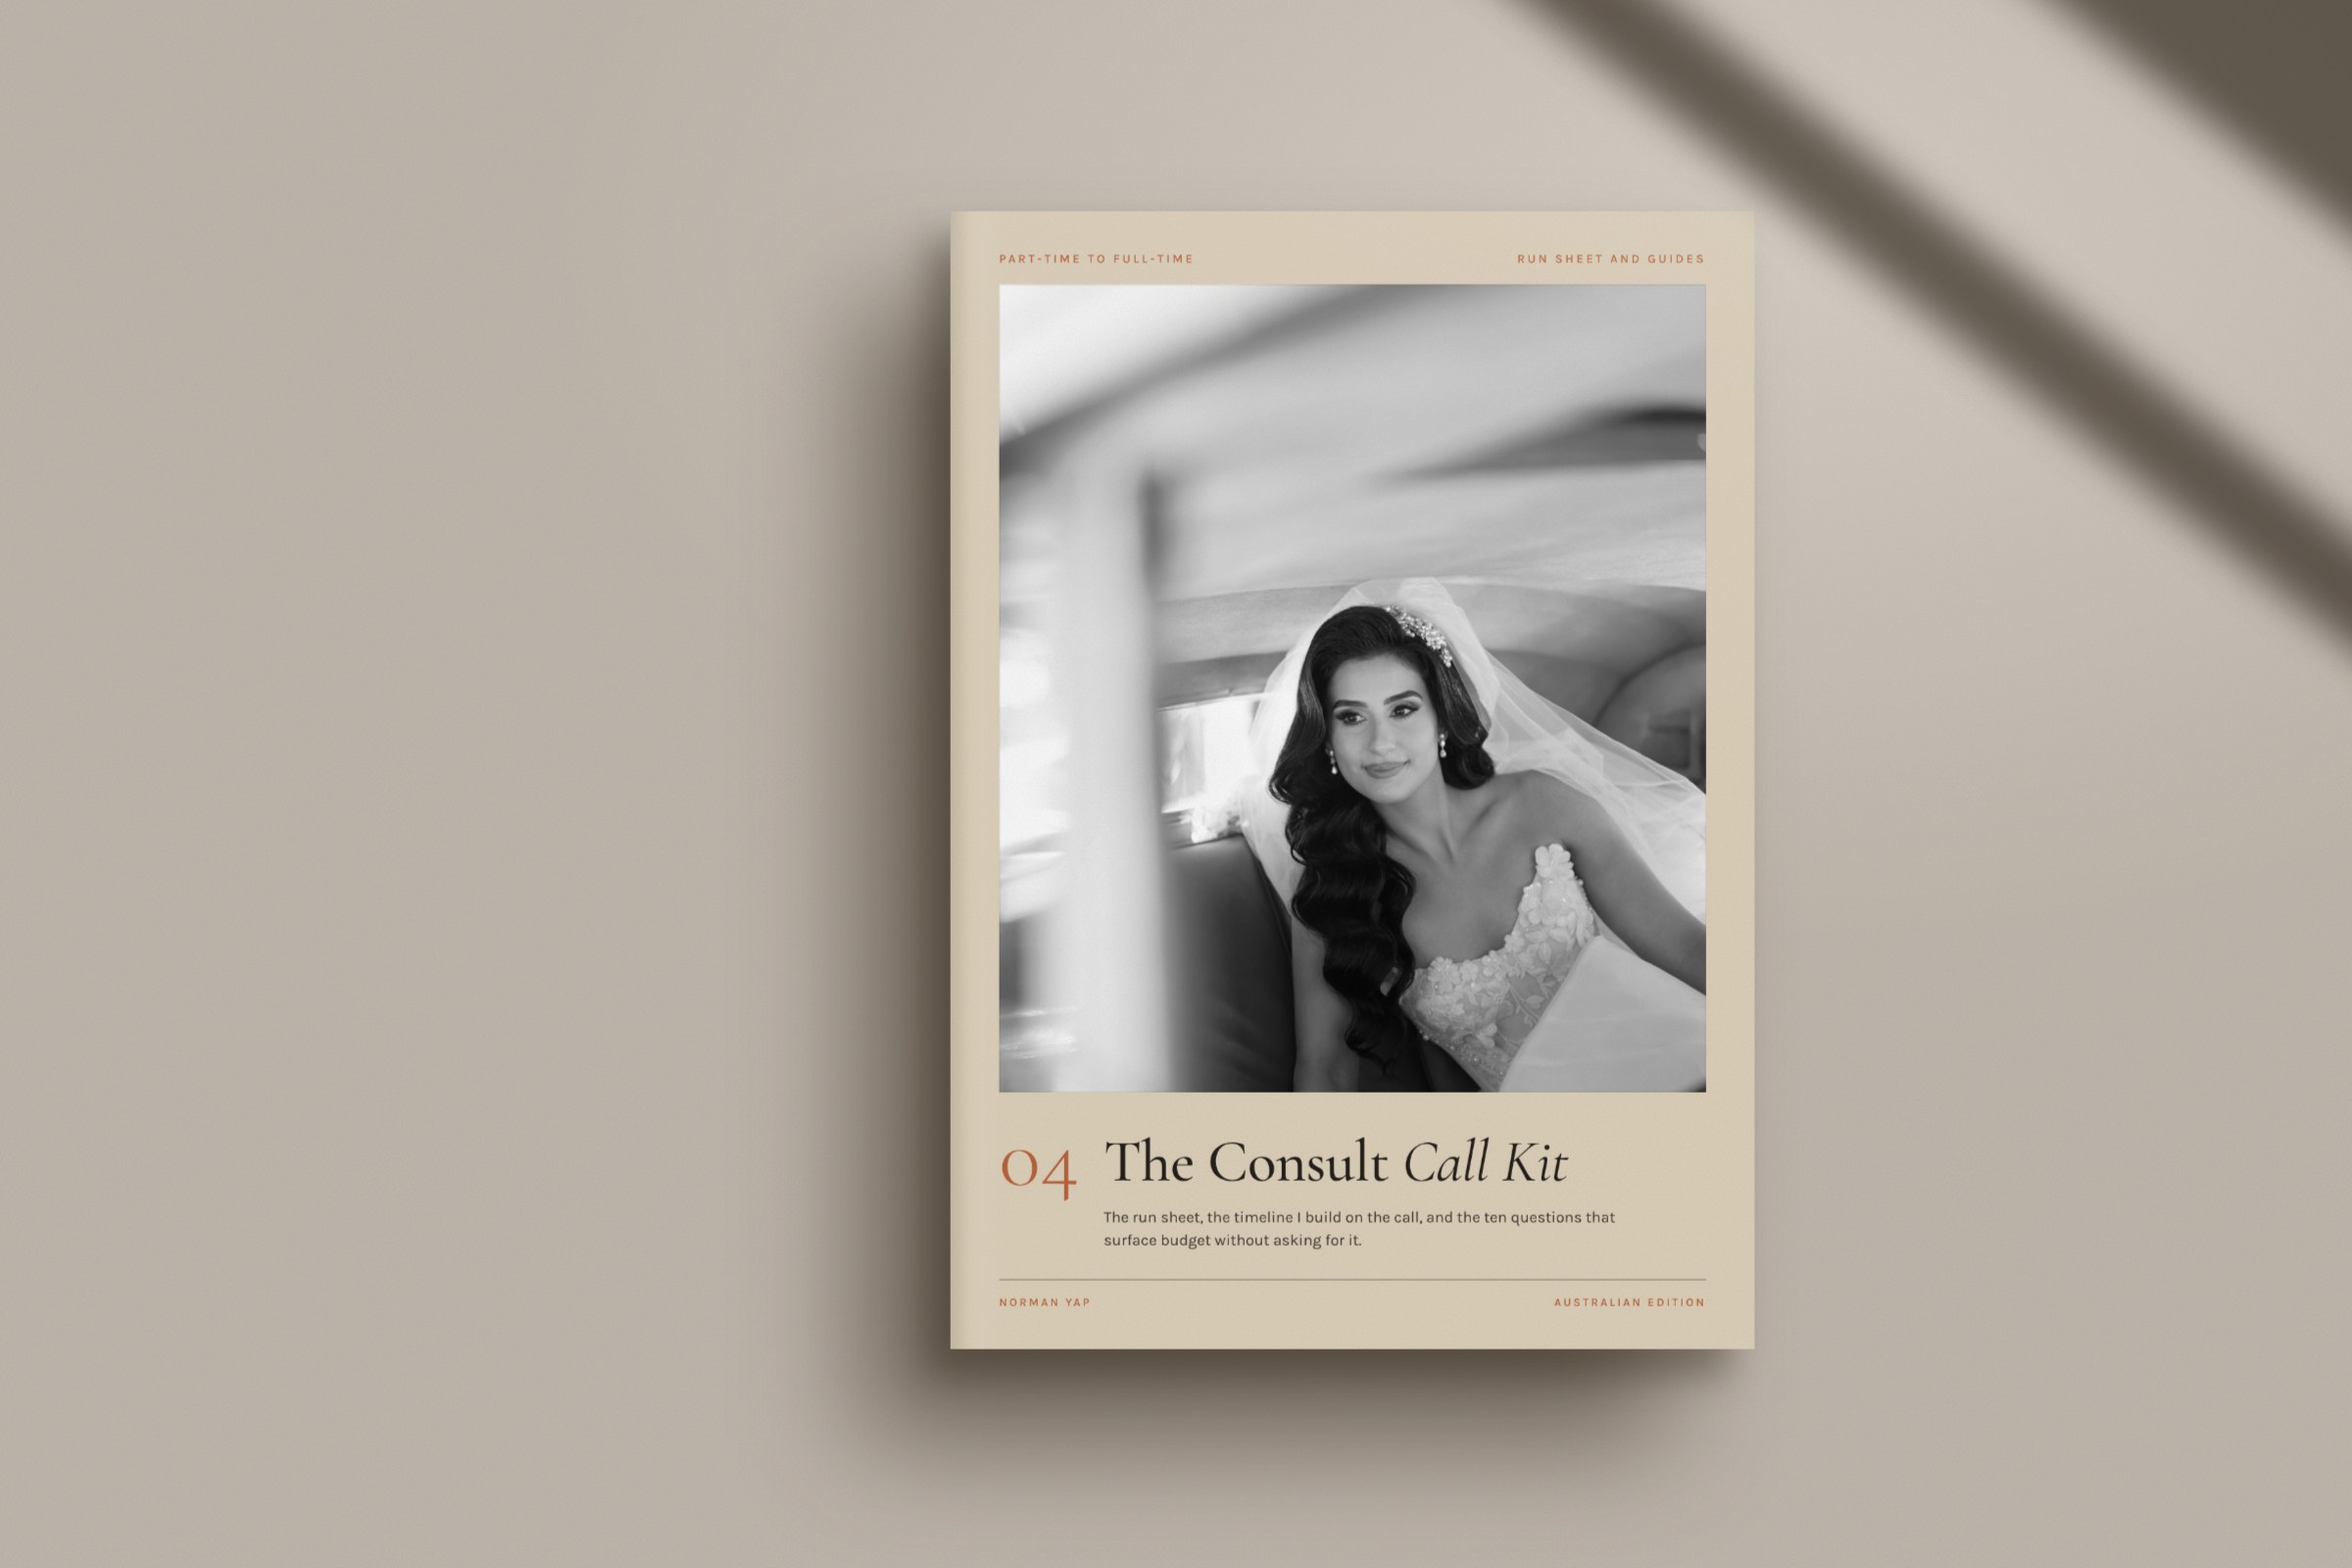
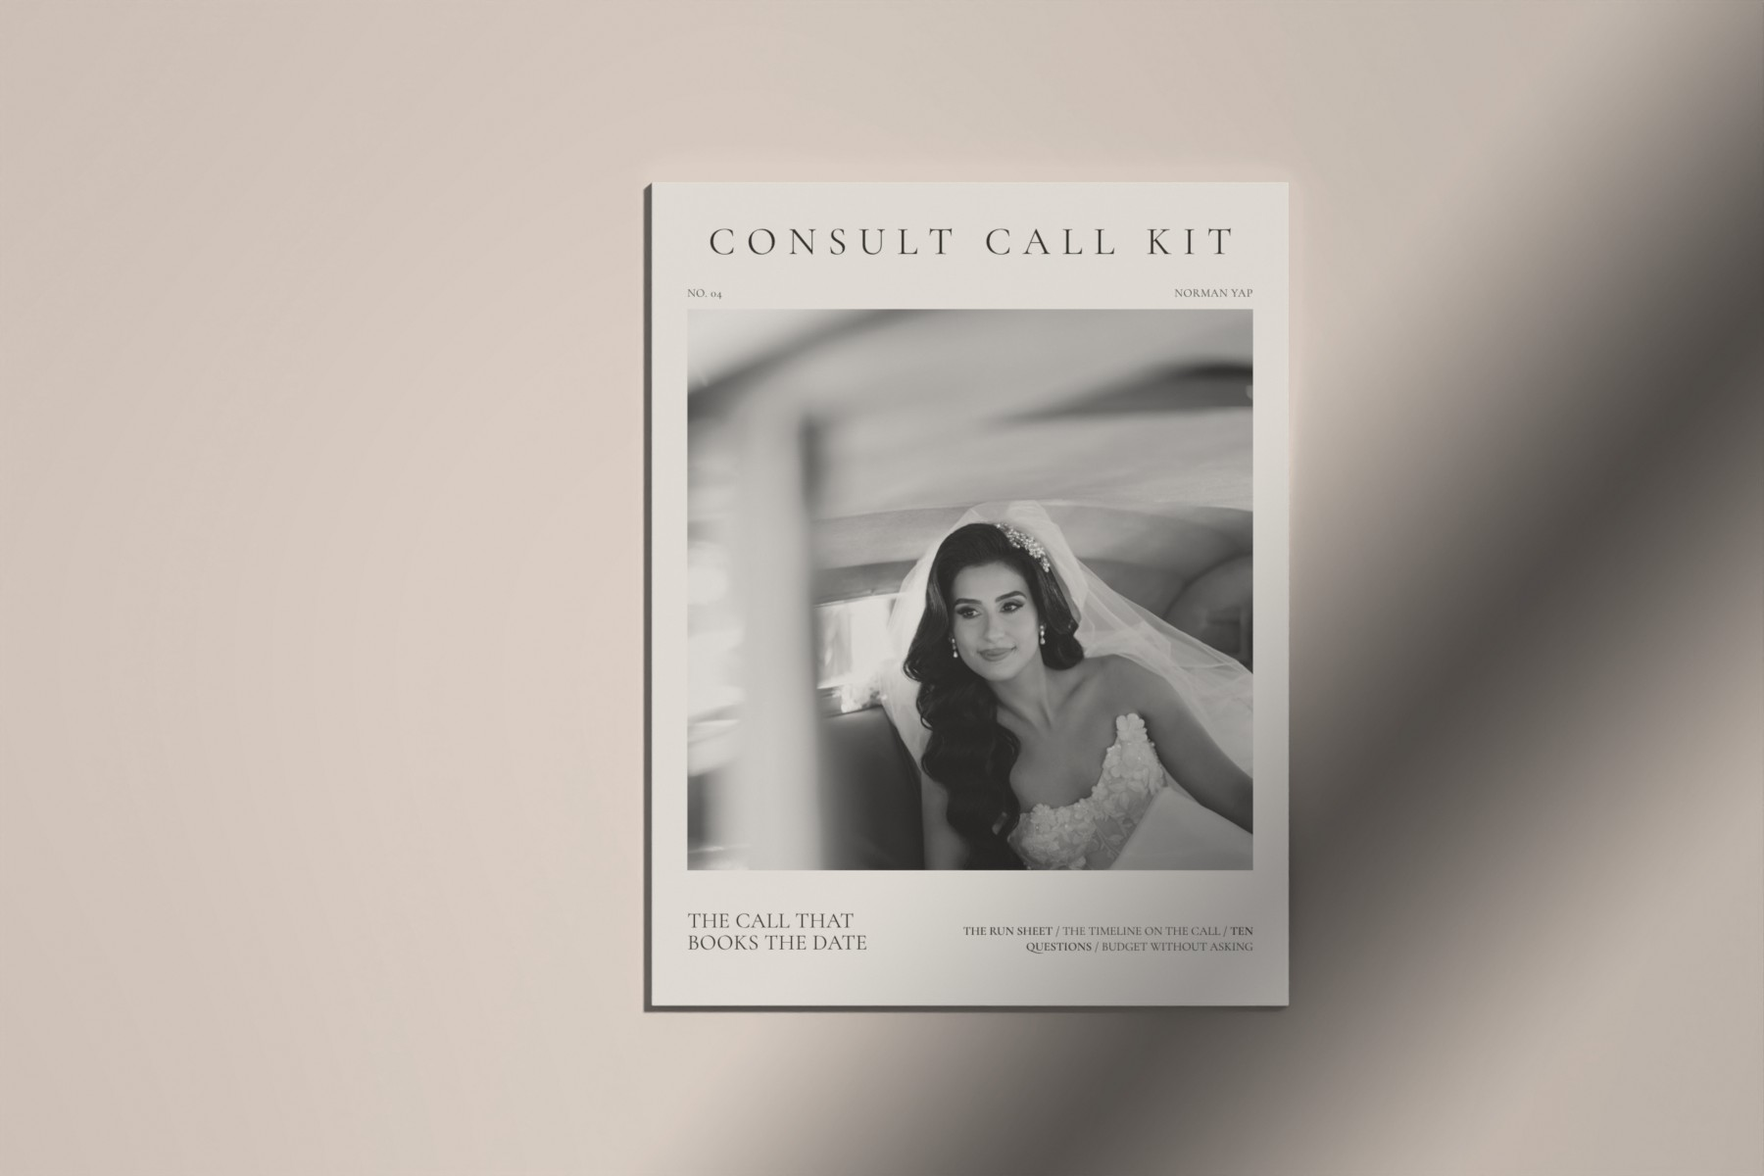
Mockups: closer match on scenes 01 to 04, renders in progress
2:3 paperback cover, thicker hardcover with stronger perspective, and
folded copies for the banded stack. Includes the scene 05 onward renders
finished so far.

Claude-Session: https://claude.ai/code/session_01GtaESJYyjWQyr6vCh4bNfK

diff --git a/mockups/blender/assets.js b/mockups/blender/assets.js
@@ -18,6 +18,12 @@ const P = ['quit-number-calculator', 'booking-pack', 'follow-up-vault', 'consult
       await el.screenshot({ path: path.join(dir, `${p}-${await el.getAttribute('data-shot')}.png`) });
     }
   }
+  for (const p of P) {   // 2:3 paperback cover from the magazine cover template
+    await pg.goto('file://' + path.join(__dirname, '..', 'covers-photo', 'magazine.html') + '?p=' + p + '&w=528');
+    await pg.evaluate(() => document.fonts.ready);
+    await pg.evaluate(async () => Promise.all([...document.images].filter(i => !i.complete).map(i => new Promise(r => { i.onload = i.onerror = r; }))));
+    await (await pg.$('[data-shot=cover]')).screenshot({ path: path.join(dir, `${p}-cover-pb.png`) });
+  }
   await b.close();
   console.log('assets done');
 })();

diff --git a/mockups/covers-photo/magazine.html b/mockups/covers-photo/magazine.html
@@ -91,4 +91,7 @@ document.body.innerHTML = `
   ${ph(S[2], 52, 380, 508, 340)}
   <div class="folio" style="right:52px"><span class="s"></span>&nbsp;&nbsp;&nbsp;13</div>
 </div>`;
+// ?w=528 gives a 2:3 paperback cover for the book scenes
+const cw = +new URLSearchParams(location.search).get('w');
+if (cw) { const c = document.querySelector('.cov'), m = c.querySelector('.mast'); c.style.width = cw + 'px'; c.style.flex = 'none'; m.style.fontSize = (parseFloat(m.style.fontSize) * cw / 612 * 0.96) + 'px'; c.querySelector('.lines').style.maxWidth = '230px'; }
 </script></body></html>

diff --git a/mockups/blender/mock.py b/mockups/blender/mock.py
@@ -26,7 +26,7 @@ def assets(p):
     L, R, X = PAGES[p]
     guide = p == 'editorial-field-guide'
     return dict(
-        cover=P('out/magazine', p + '-cover.jpg'), bleed=P('out/assets', p + '-bleed.png'),
+        cover=P('out/magazine', p + '-cover.jpg'), cover_pb=P('out/assets', p + '-cover-pb.png'), bleed=P('out/assets', p + '-bleed.png'),
         spine=P('out/assets', p + '-spine.png'), spine_dark=P('out/assets', p + '-spine-dark.png'),
         band=P('out/assets', p + '-band.png'), L=P(L), R=P(R), X=P(X),
         magL=P(R) if guide else P('out/magazine', p + '-L.jpg'),
@@ -130,14 +130,14 @@ def image(path):
     return _img[path]
 
 
-def printed(path, rough=0.5, crop=(0, 1), glow=0.0, back=None):
+def printed(path, rough=0.5, crop=(0, 1), glow=0.0, back=None, vcrop=(0, 1)):
     """Paper printed with an image. crop trims the texture left and right. back is the reverse side."""
     m, b = principled(os.path.basename(path))
     nt = m.node_tree
     uv = nt.nodes.new('ShaderNodeTexCoord')
     mp = nt.nodes.new('ShaderNodeMapping')
-    mp.inputs['Location'].default_value = (crop[0], 0, 0)
-    mp.inputs['Scale'].default_value = (crop[1] - crop[0], 1, 1)
+    mp.inputs['Location'].default_value = (crop[0], vcrop[0], 0)
+    mp.inputs['Scale'].default_value = (crop[1] - crop[0], vcrop[1] - vcrop[0], 1)
     tx = nt.nodes.new('ShaderNodeTexImage')
     tx.image, tx.extension = image(path), 'EXTEND'
     nt.links.new(uv.outputs['UV'], mp.inputs['Vector'])
@@ -314,27 +314,27 @@ def group(objs, loc=(0, 0, 0), rot=(0, 0, 0)):
 # Each returns (background colour, light spot (x, y, radius, strength), grain)
 def r01(A):
     """Paperback lying flat, three-quarter view, on pale grey."""
-    b = book(0.30, 0.39, 0.024, printed(A['cover'], 0.5), spine=printed(A['spine'], 0.5))
-    b.rotation_euler = (0, 0, math.radians(31))
+    b = book(0.262, 0.393, 0.020, printed(A['cover_pb'], 0.55), spine=printed(A['spine'], 0.55))
+    b.rotation_euler = (0, 0, math.radians(34))
     catcher()
-    sky(0.62); sun(125, 52, 2.3, 14)
-    camera((0.06, -2.55, 3.05), (0.06, 0.0, 0), lens=170)
-    return (224, 224, 224), (0.3, 0.3, 0.9, 12)
+    sky(0.74); sun(118, 60, 1.5, 22)
+    camera((-0.005, -2.55, 3.05), (-0.005, 0.03, 0), lens=178)
+    return (221, 221, 221), (0.45, 0.4, 0.9, 6)
 
 
 def r02(A):
     """Open paperback, same camera."""
-    l, r, _ = open_spread(0.29, 0.40, 0.020, A['L'], A['R'], bulge=0.012, a=0.05)
+    l, r, _ = open_spread(0.266, 0.40, 0.022, A['L'], A['R'], bulge=0.014, a=0.05)
     group([l, r], rot=(0, 0, math.radians(27)))
     catcher()
-    sky(0.62); sun(125, 52, 2.3, 14)
+    sky(0.74); sun(118, 60, 1.5, 22)
     camera((0.02, -2.55, 3.05), (0.02, 0.0, 0), lens=150)
-    return (224, 224, 224), (0.3, 0.3, 0.9, 12)
+    return (221, 221, 221), (0.45, 0.4, 0.9, 6)
 
 
 def r03(A):
     """Hardcover standing on white, a sliver of spine, soft floor shadow to the left."""
-    w, h, t, bd = 0.30, 0.40, 0.042, 0.004
+    w, h, t, bd = 0.285, 0.40, 0.064, 0.004
     cloth = flat('cloth', (0.035, 0.033, 0.032), 0.55)
     parts = [book(w, h, bd, printed(A['bleed'], 0.38), back=cloth, spine=cloth, edges=cloth, bevel=0.0008)]
     parts[0].location = (0, 0, t - bd)
@@ -344,31 +344,32 @@ def r03(A):
     pg = book(w - 0.012, h - 0.016, t - 2 * bd, flat('pg', (0.93, 0.92, 0.9)), bevel=0)
     pg.location = (-0.002, 0, bd)
     g = group(parts + [bk, sp, pg])
-    g.rotation_euler = (math.radians(90), 0, math.radians(24))   # stand up, turn the spine toward the camera
+    g.rotation_euler = (math.radians(90), 0, math.radians(28))   # stand up, turn the spine toward the camera
     g.location = (0, 0, h / 2)
     catcher()
-    sky(0.8); sun(-50, 40, 1.6, 30)
-    camera((0, -4.2, 0.30), (0.0, 0, 0.2), lens=200)
+    sky(0.85); sun(-60, 46, 1.3, 34)
+    camera((0.03, -1.9, 0.215), (0.03, 0, 0.2), lens=86)
     return (255, 255, 255), None
 
 
 def r04(A):
-    """Three copies fanned in a stack with a kraft band, top-down on sage."""
-    w, h, t = 0.433, 0.560, 0.009
-    cx, cy = px(590, 388)
-    for k, (dx, dy, rz) in enumerate([(0.034, -0.05, -3.4), (0.016, -0.026, -1.4), (0, 0, 1.0)]):
-        m = magazine(w, h, t, A['cover'])
-        m.location = (cx + dx, cy + dy, k * (t + 0.0006))
+    """Three folded copies fanned in a stack with a kraft band, top-down on sage."""
+    w, h, t = 0.464, 0.344, 0.011
+    vc = (1 - 612 * h / w / 792, 1)              # the fold shows the top of the cover
+    cx, cy = px(552, 452)
+    paper = flat('fold', (0.94, 0.935, 0.92), 0.6)
+    for k, (dx, dy, rz) in enumerate([(0.085, -0.115, 1.5), (0.045, -0.06, -0.8), (0, 0, 0.6)]):
+        m = book(w, h, t, printed(A['cover'], 0.55, vcrop=vc), back=paper, spine=paper, edges=paper, bevel=0.0035)
+        m.location = (cx + dx, cy + dy, k * (t + 0.0005))
         m.rotation_euler = (0, 0, math.radians(rz))
-    bw = 0.092
-    band = book(bw, h + 0.012, 0.0014, printed(A['band'], 0.75), back=flat('kraft', (0.72, 0.6, 0.45), 0.8),
-                edges=flat('kraft2', (0.70, 0.58, 0.43), 0.8), spine=flat('kraft3', (0.70, 0.58, 0.43), 0.8), bevel=0)
-    band.location = (cx + 0.06, cy, 3 * t + 0.002)
-    band.rotation_euler = (0, 0, math.radians(1.0))
+    kraft = flat('kraft', (0.70, 0.58, 0.43), 0.8)
+    band = book(0.125, h + 0.016, 0.0016, printed(A['band'], 0.75, vcrop=(0.42, 1)), back=kraft, edges=kraft, spine=kraft, bevel=0)
+    band.location = (cx + 0.07, cy, 3 * t + 0.0025)
+    band.rotation_euler = (0, 0, math.radians(0.6))
     catcher()
-    sky(0.48); sun(60, 60, 2.6, 8)
+    sky(0.5); sun(62, 60, 2.5, 9)
     topdown(1.2)
-    return (163, 176, 147), (0.5, 0.45, 0.75, 16)
+    return (163, 176, 147), (0.5, 0.5, 0.8, 18)
 
 
 def r05(A):
